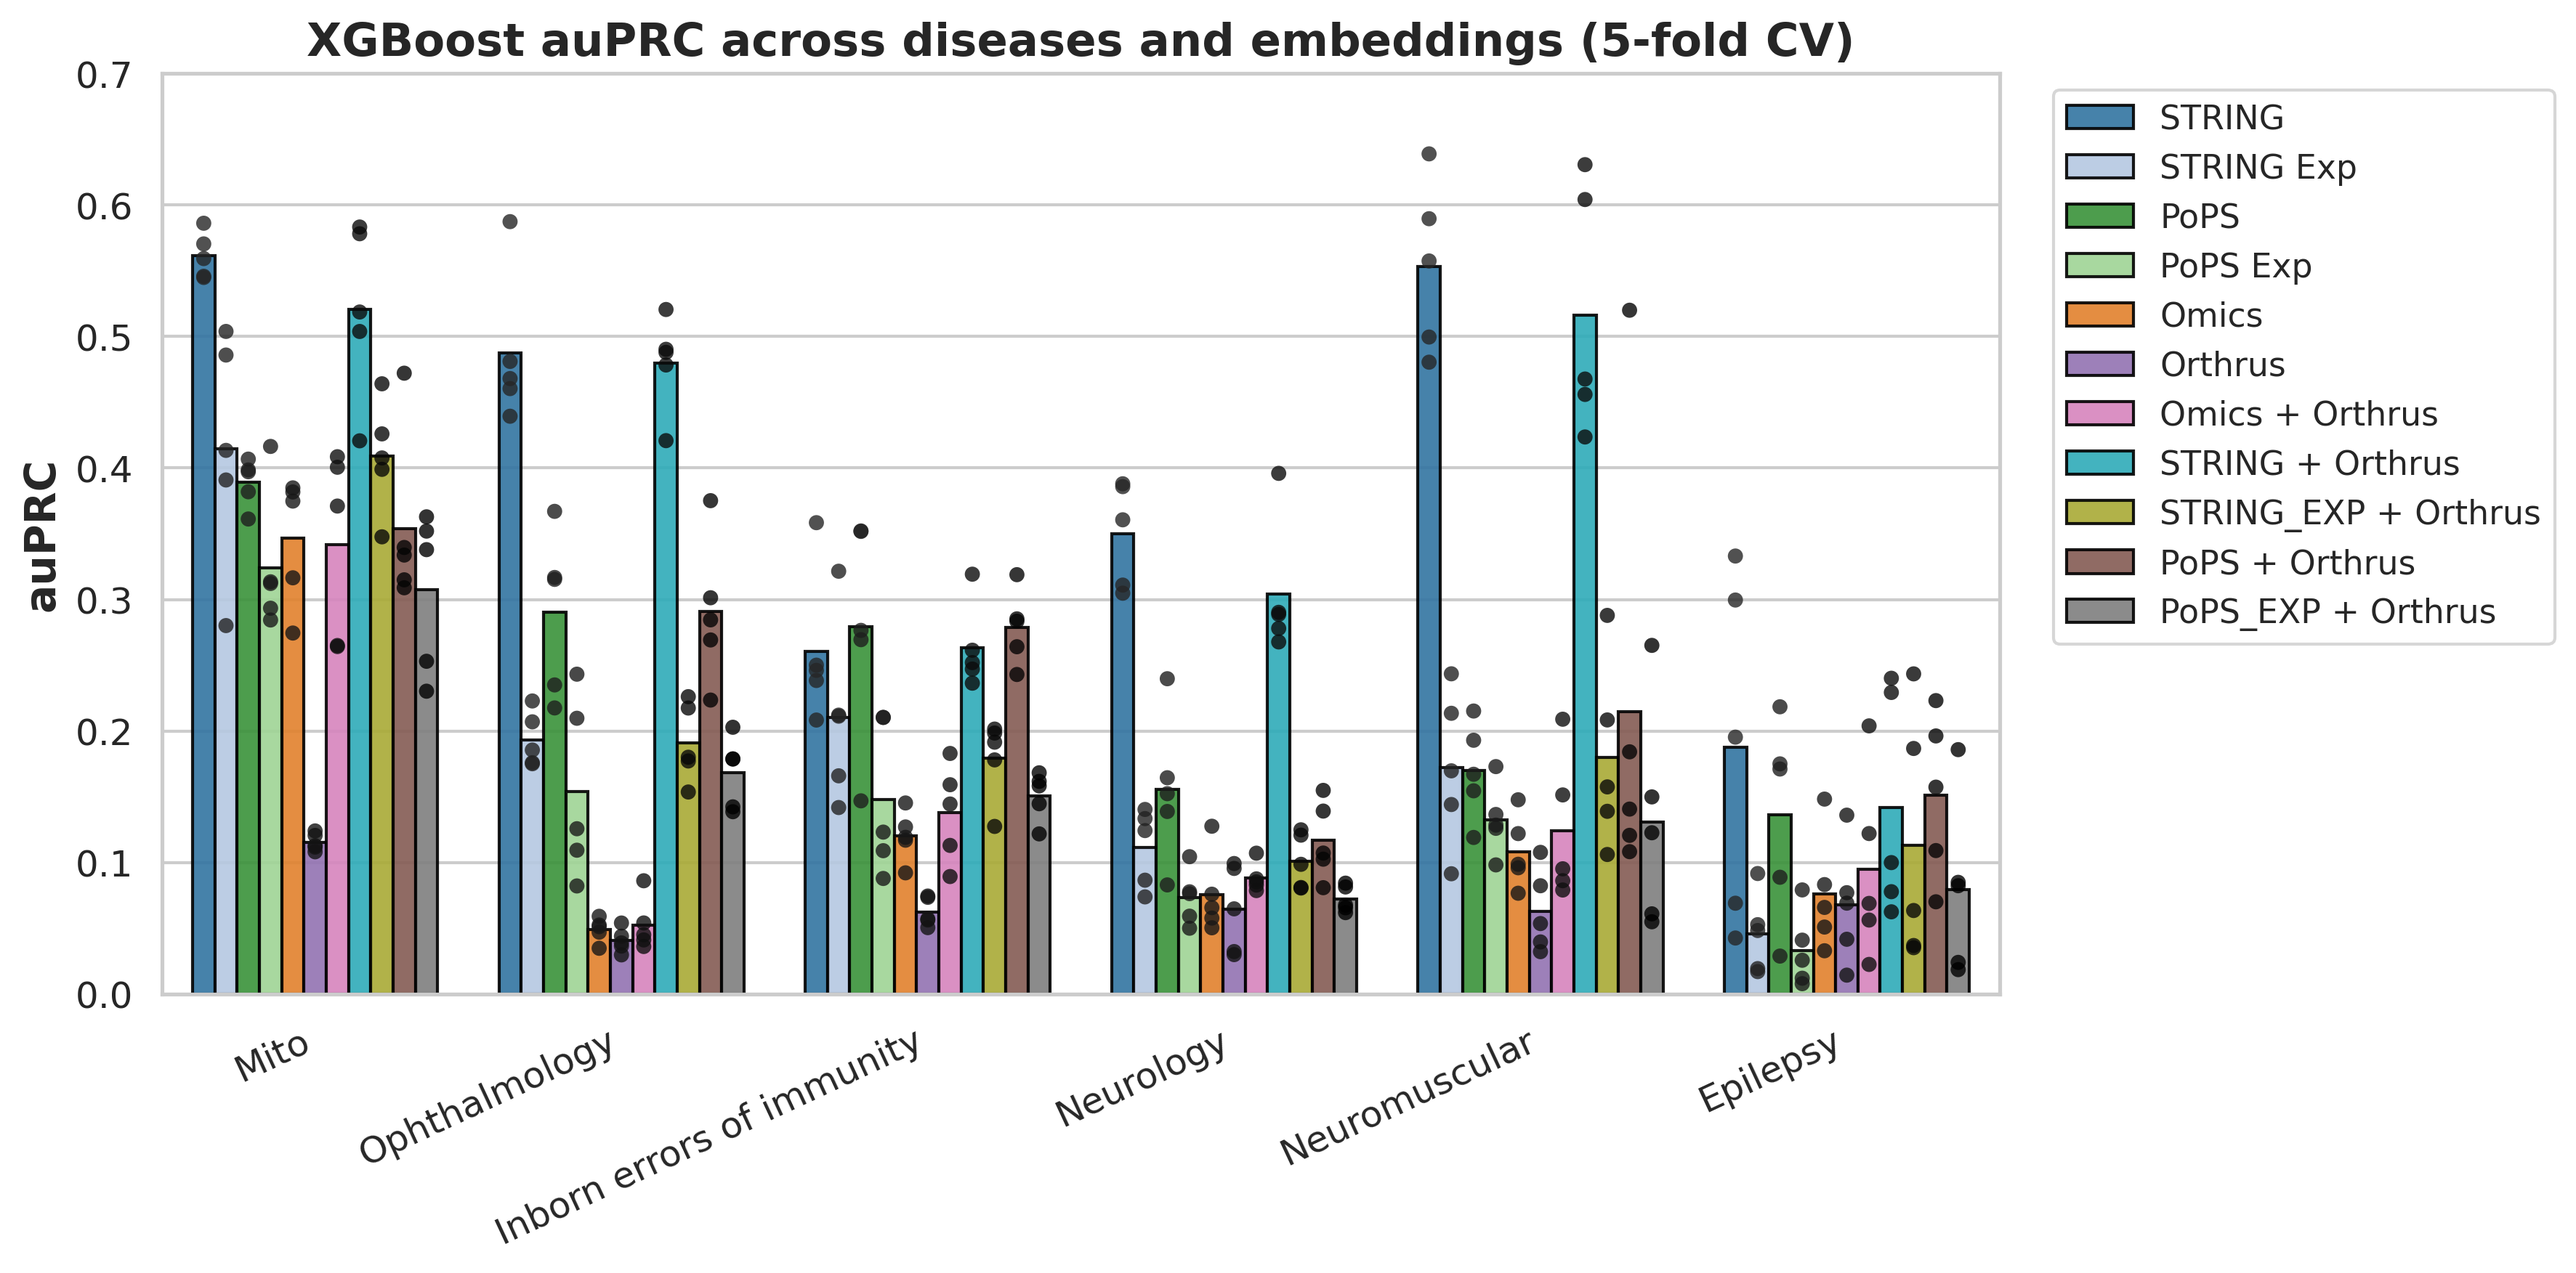
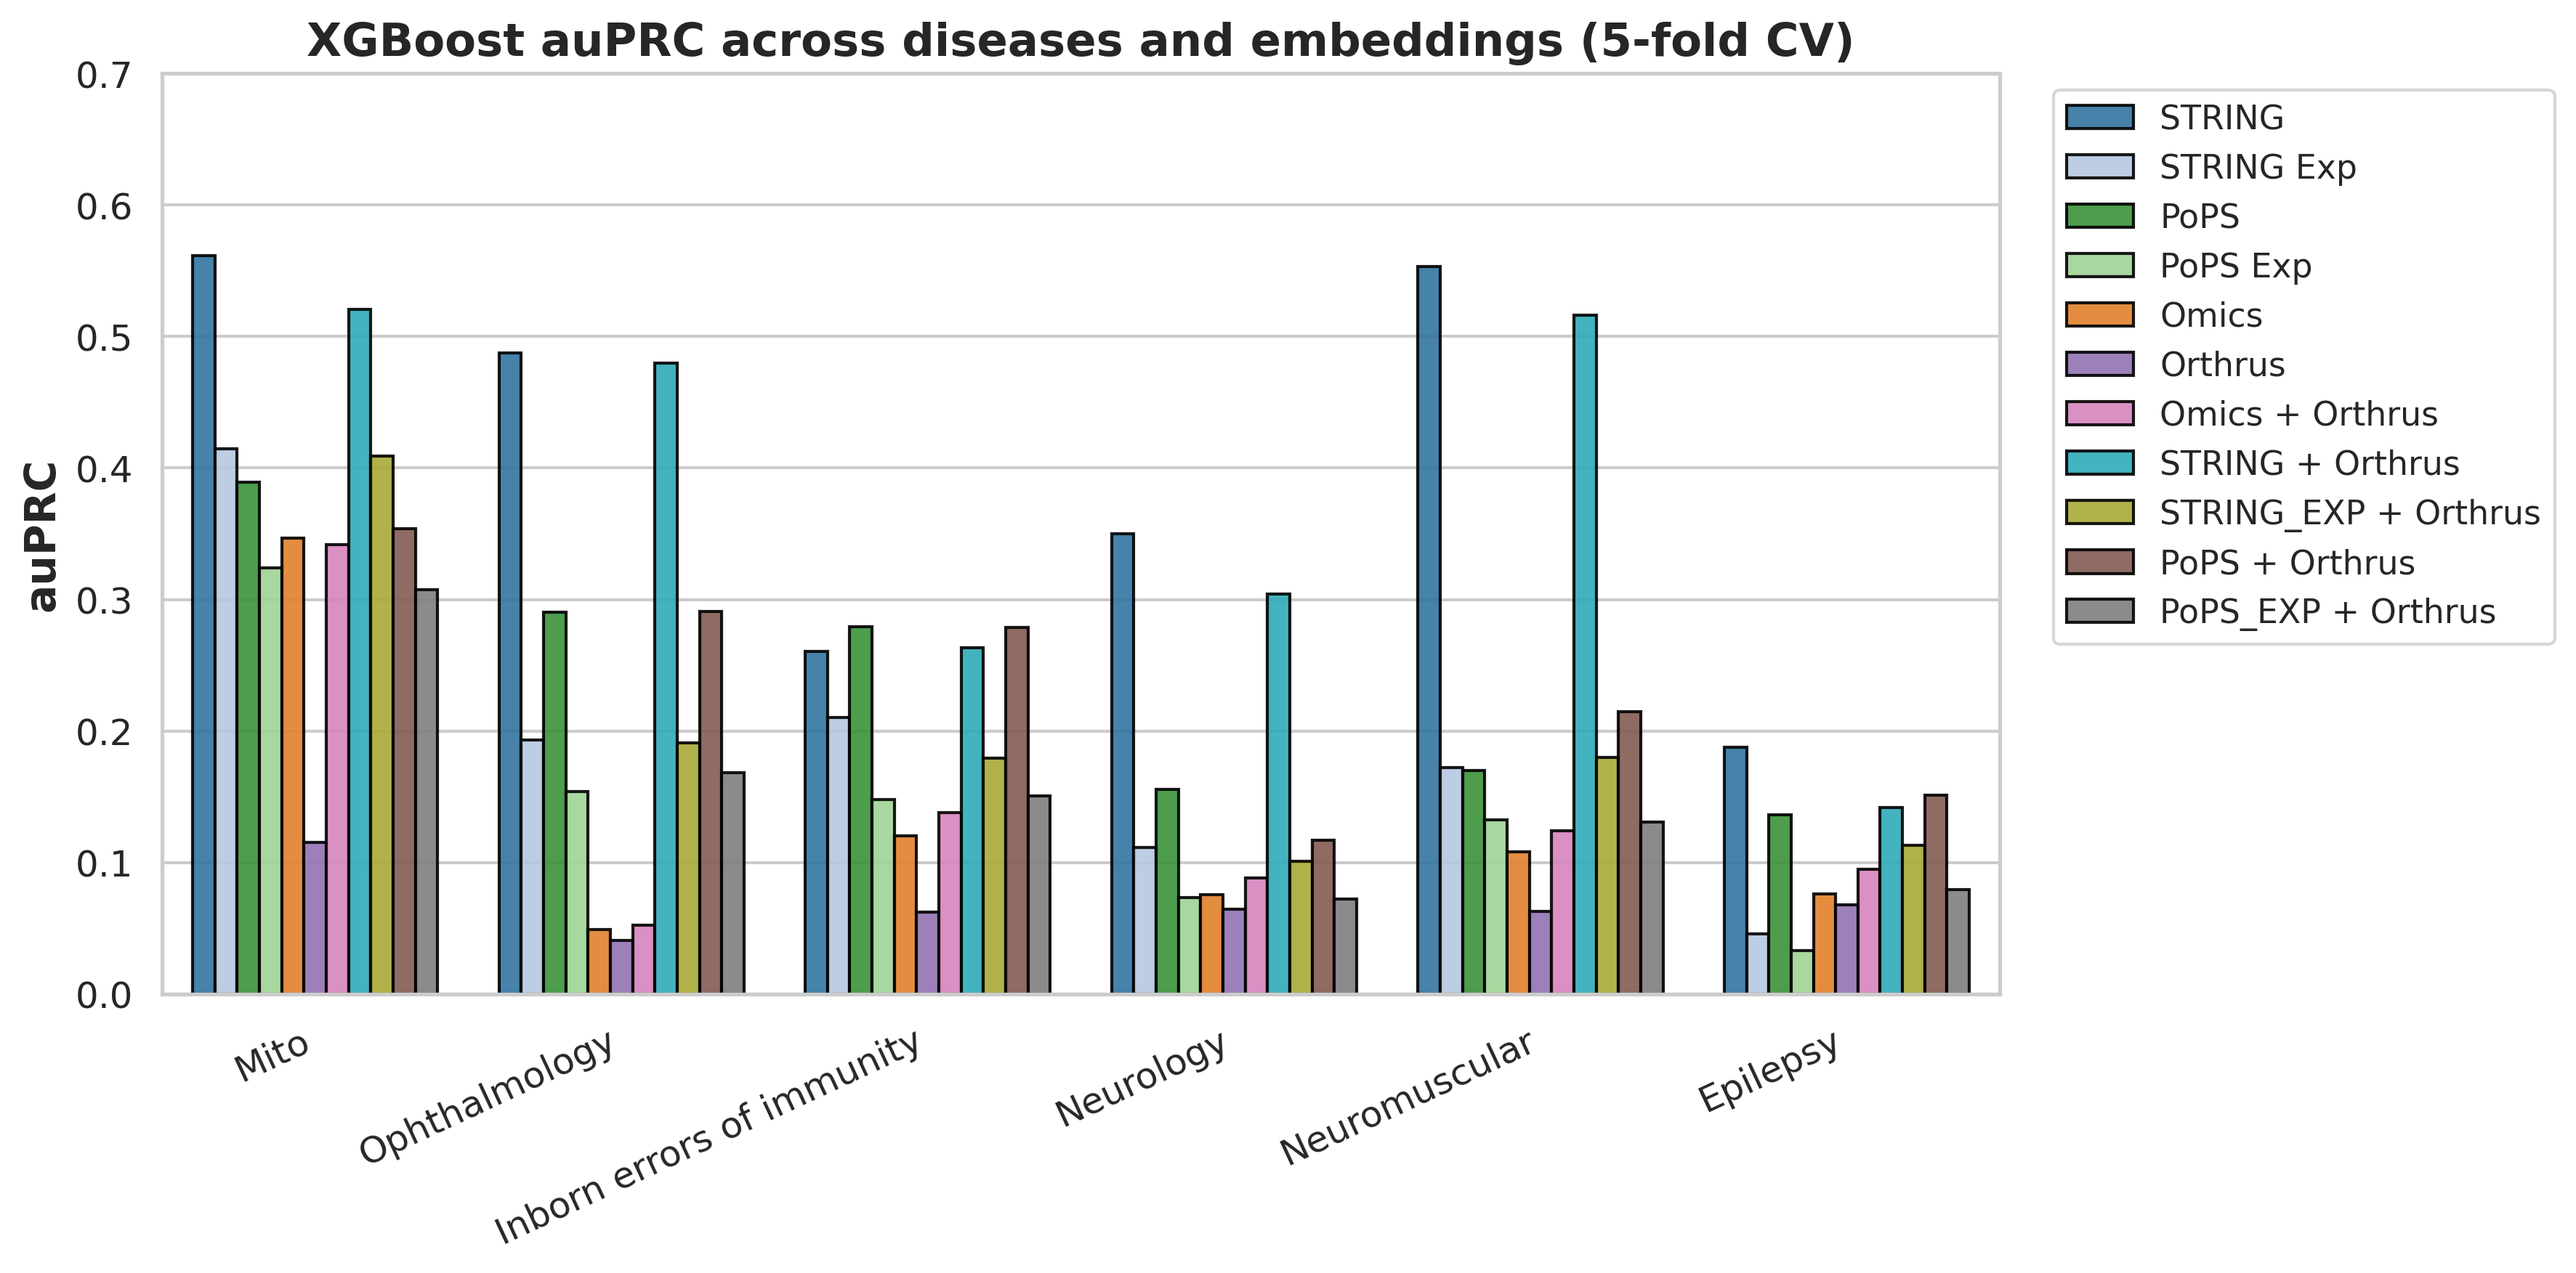
remove CV dots from auPRC plot

diff --git a/Disease Predictions/common_helper_functions.py b/Disease Predictions/common_helper_functions.py
@@ -288,11 +288,11 @@ def plot_disease_embeddings_auprc_paper(embedding_datasets, disease_datasets, sa
     )
 
     # Black dots = fold results
-    sns.stripplot(
-        data=results_df,
-        x="Disease", y="auPRC", hue="Embedding",
-        dodge=True, jitter=False, marker="o", alpha=0.8, color="black"
-    )
+   # sns.stripplot(
+   #     data=results_df,
+   #     x="Disease", y="auPRC", hue="Embedding",
+   #     dodge=True, jitter=False, marker="o", alpha=0.8, color="black"
+   # )
 
     # Clean legend (remove duplicates)
     handles, labels = plt.gca().get_legend_handles_labels()
